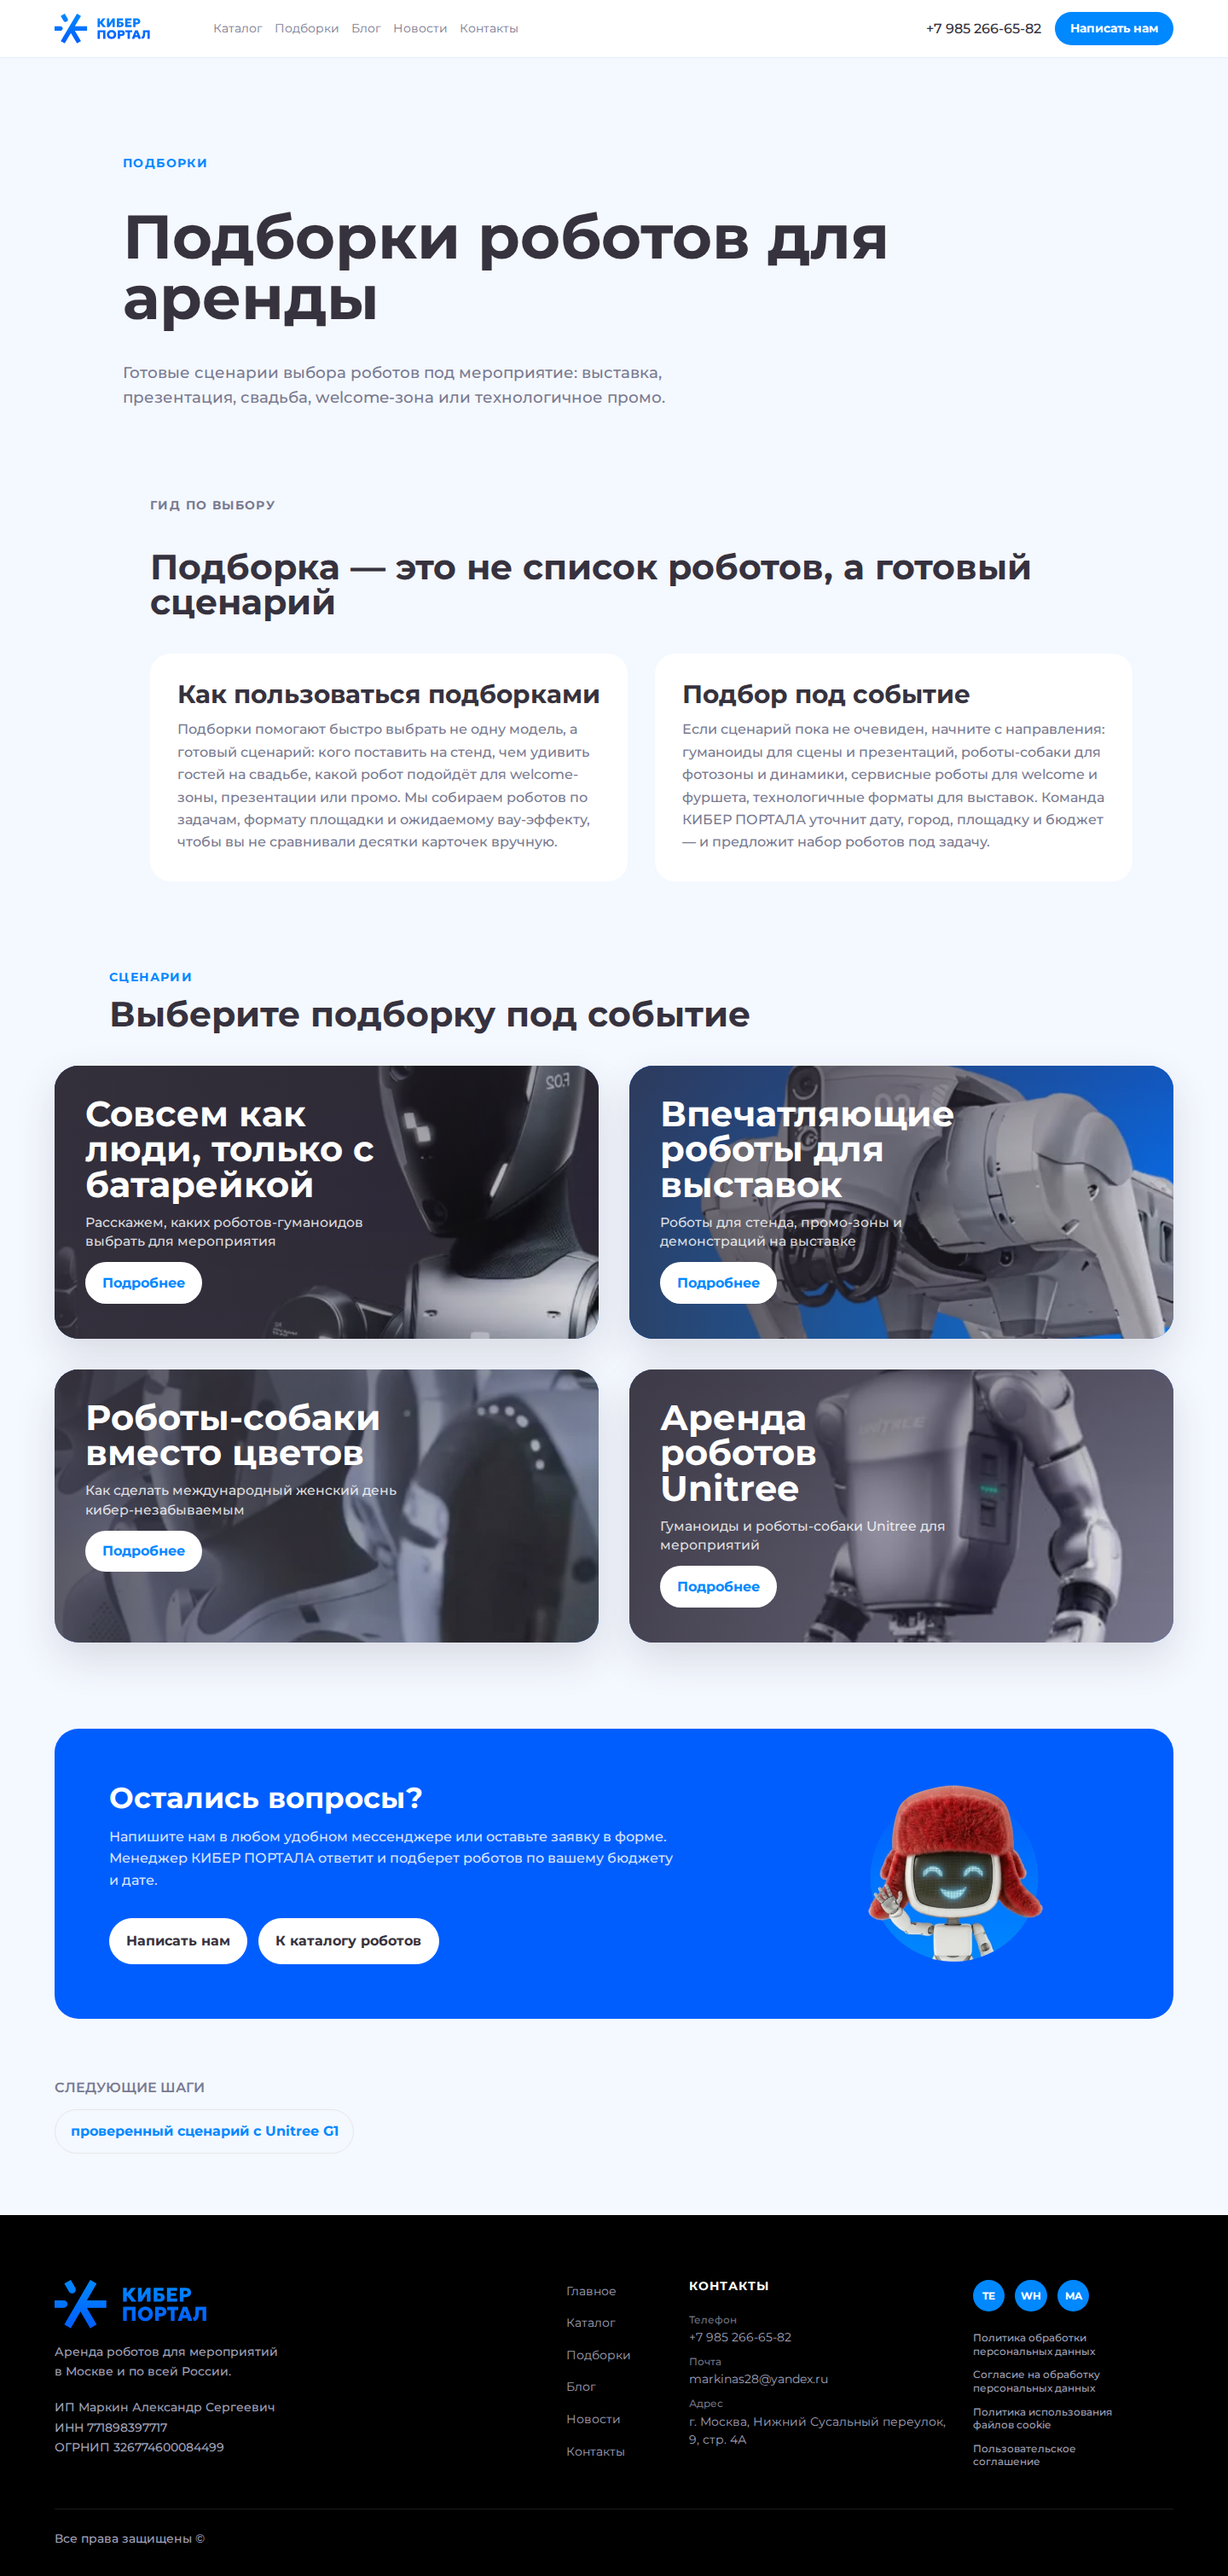
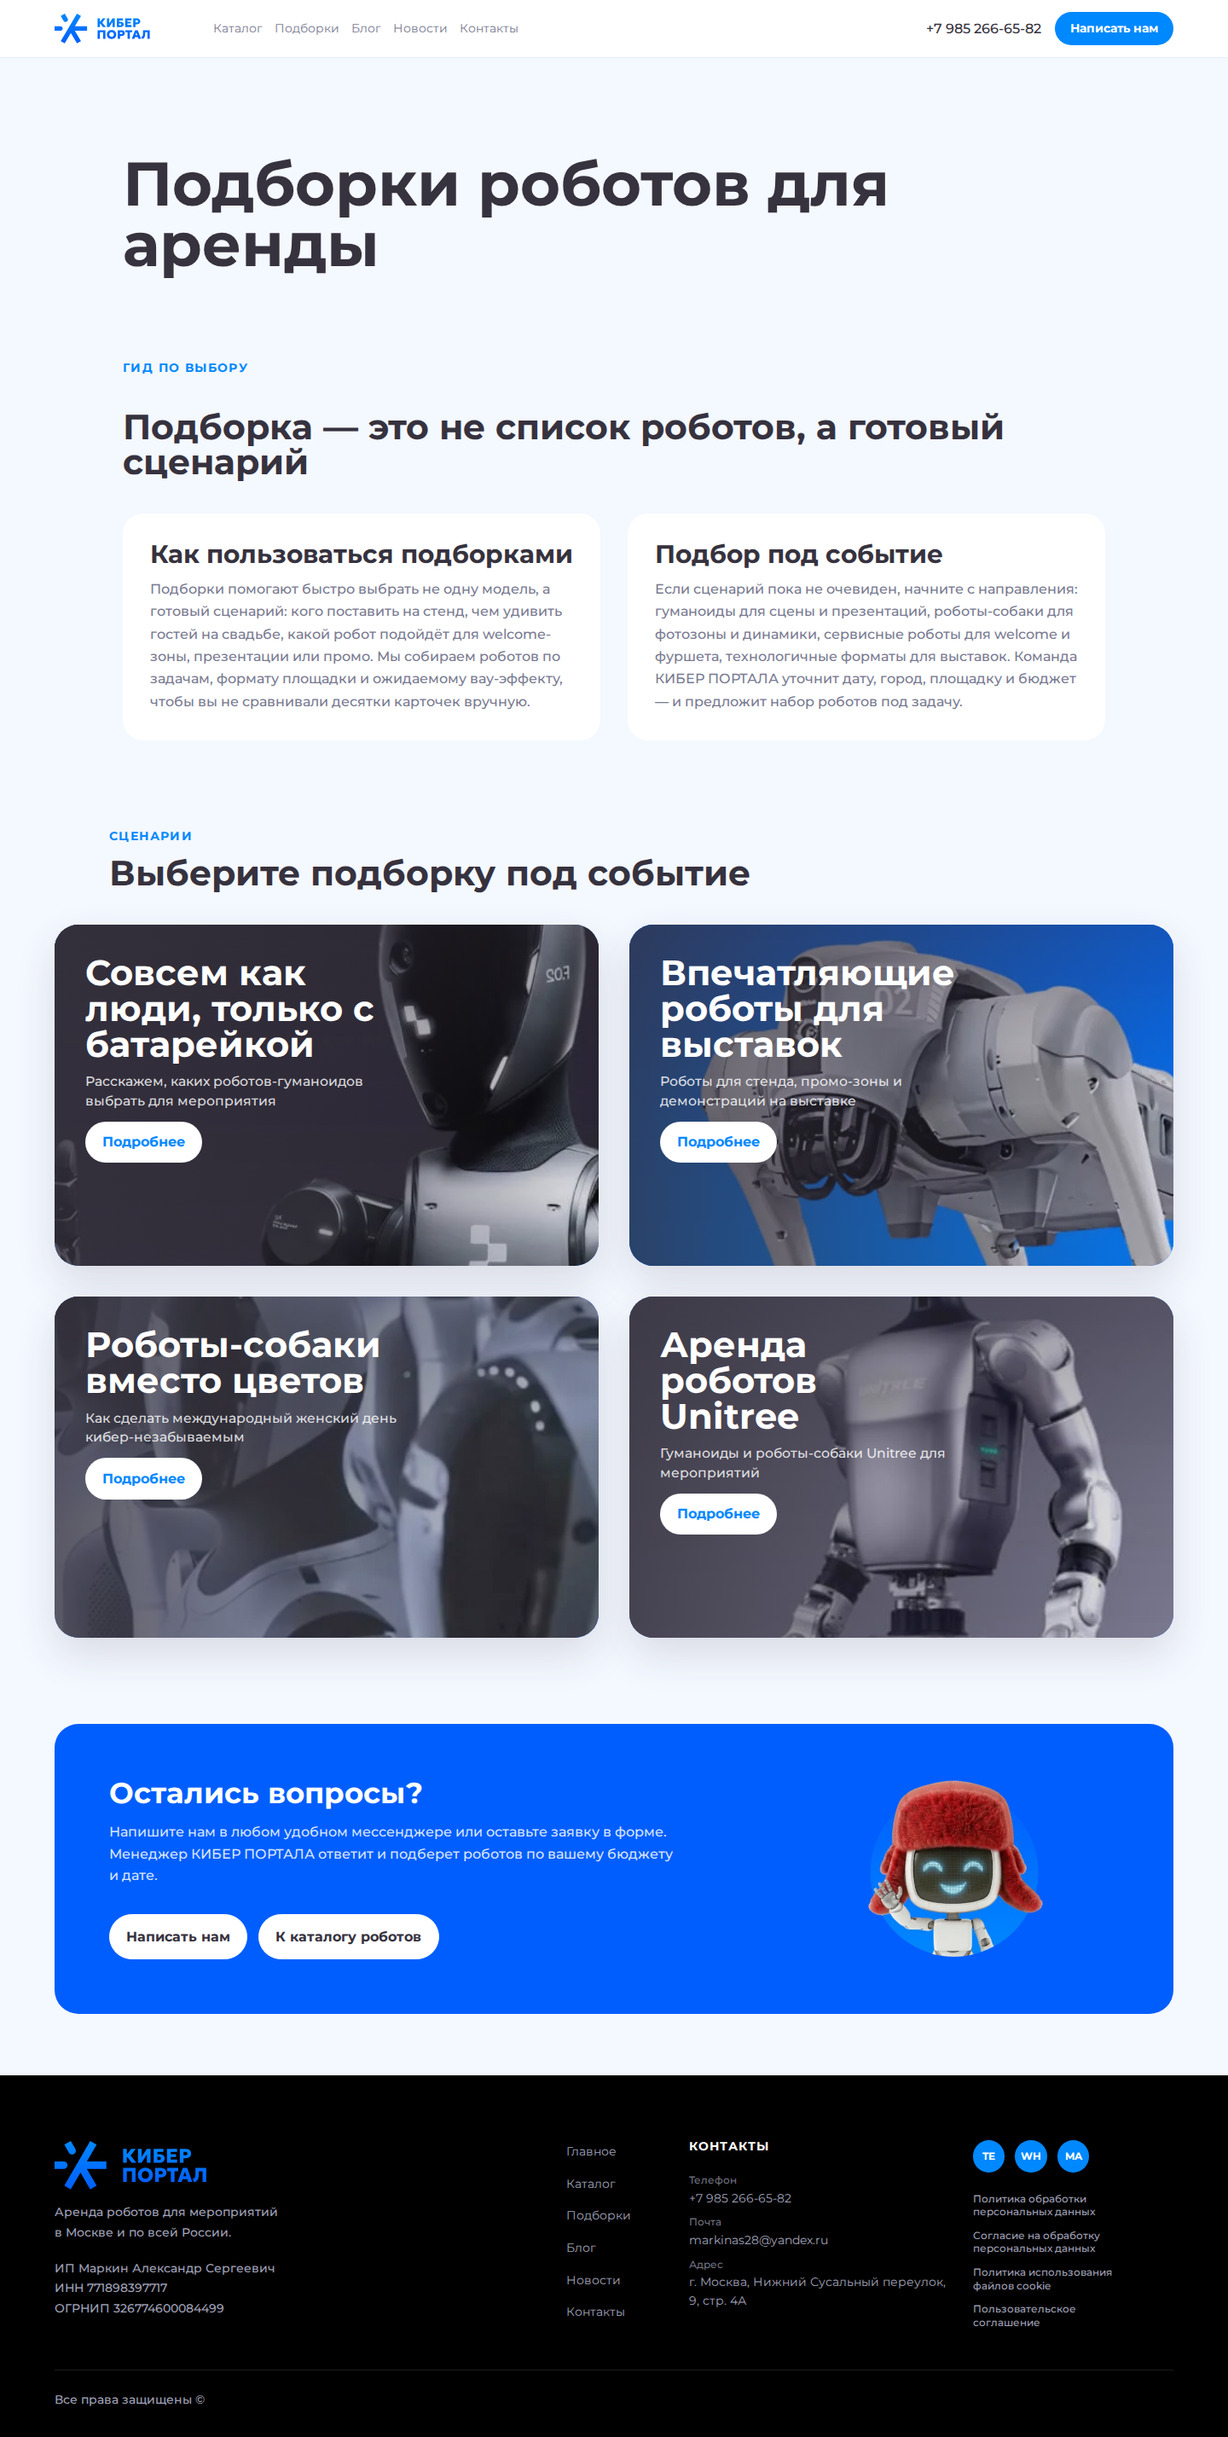
fix: refine compilations page spacing

diff --git a/tests/visual/compilations-index-page.test.ts b/tests/visual/compilations-index-page.test.ts
@@ -13,25 +13,35 @@ test('KIBER-91 compilations index is not a placeholder page', () => {
   assert.match(page, /compilationCards = homeCompilations\.cards\.slice\(0, 4\)/);
   assert.match(page, /cardAnchors = \['roboty-gumanoidy', 'roboty-dlya-vystavok', 'roboty-sobaki', 'unitree'\]/);
   assert.match(page, /id=\{card\.id\}/);
+  assert.match(page, /<section class="compilations-page__hero container"[\s\S]*<h1 id="page-title">Подборки роботов для аренды<\/h1>[\s\S]*<\/section>/);
+  assert.doesNotMatch(page, /<p class="compilations-page__eyebrow">Подборки<\/p>/);
+  assert.doesNotMatch(page, /Готовые сценарии выбора роботов под мероприятие/);
   assert.match(page, /class="compilations-page__grid"/);
   assert.match(page, /class="compilations-page__card"/);
   assert.doesNotMatch(page, /compilations-page__card-index/);
   assert.doesNotMatch(page, />0\{index \+ 1\}</);
   assert.match(page, /Подборка — это не список роботов, а готовый сценарий/);
   assert.match(page, /<HomeFinalCta \{\.\.\.homeFinalCta\} \/>/);
+  assert.match(page, /class="compilations-page__links-hidden"/);
+  assert.match(page, /<InternalLinks route="\/compilations\/" label="Внутренняя навигация" \/>/);
+  assert.doesNotMatch(page, /Следующие шаги/);
   assert.match(page, /compilations-page__hero[\s\S]*compilations-page__text[\s\S]*compilations-page__cards[\s\S]*compilations-page__cta/);
 });
 
-test('KIBER-91 compilations scenario and guide blocks use owner-requested left inset', () => {
+test('KIBER-91 compilations scenario keeps requested inset while guide aligns to hero', () => {
   assert.match(page, /compilations-page__section-copy compilations-page__section-copy--inset/);
-  assert.match(page, /@media \(min-width: 40rem\)[\s\S]*compilations-page__section-copy--inset,[\s\S]*compilations-page__text > \.compilations-page__eyebrow,[\s\S]*compilations-page__text > h2,[\s\S]*compilations-page__text-grid[\s\S]*margin-inline-start:\s*clamp\(1\.75rem, 5vw, 4rem\)/);
-  assert.doesNotMatch(page, /@media \(max-width: 39\.9375rem\)[\s\S]*\.compilations-page__text \{\s*padding-inline-start:\s*0/);
+  assert.match(page, /\.compilations-page__text > \.compilations-page__eyebrow \{[\s\S]*color:\s*var\(--kp-reference-blue\)[\s\S]*font-size:\s*var\(--kp-reference-label-size\)[\s\S]*letter-spacing:\s*\.1em[\s\S]*text-transform:\s*uppercase/);
+  assert.match(page, /@media \(min-width: 40rem\)[\s\S]*compilations-page__section-copy--inset[\s\S]*margin-inline-start:\s*clamp\(1\.75rem, 5vw, 4rem\)/);
+  assert.doesNotMatch(page, /compilations-page__text > h2,[\s\S]*margin-inline-start:\s*clamp\(1\.75rem, 5vw, 4rem\)/);
 });
 
 test('KIBER-91 compilations index uses two-column card layout on desktop', () => {
   assert.match(page, /grid-template-columns:\s*repeat\(2, minmax\(0, 1fr\)\)/);
   assert.match(page, /@media \(max-width: 56rem\)[\s\S]*grid-template-columns:\s*1fr/);
-  assert.match(page, /min-height:\s*clamp\(15rem, 23vw, 20rem\)/);
+  assert.match(page, /min-height:\s*clamp\(18\.75rem, 28\.75vw, 25rem\)/);
+  assert.match(page, /@media \(max-width: 56rem\)[\s\S]*min-height:\s*22\.5rem/);
+  assert.match(page, /@media \(max-width: 39\.9375rem\)[\s\S]*min-height:\s*23\.75rem/);
+  assert.match(page, /\.compilations-page__card-cta \{[\s\S]*margin-top:\s*auto/);
 });
 
 test('KIBER-91 QA finding no longer lists compilations as unresolved placeholder', () => {
